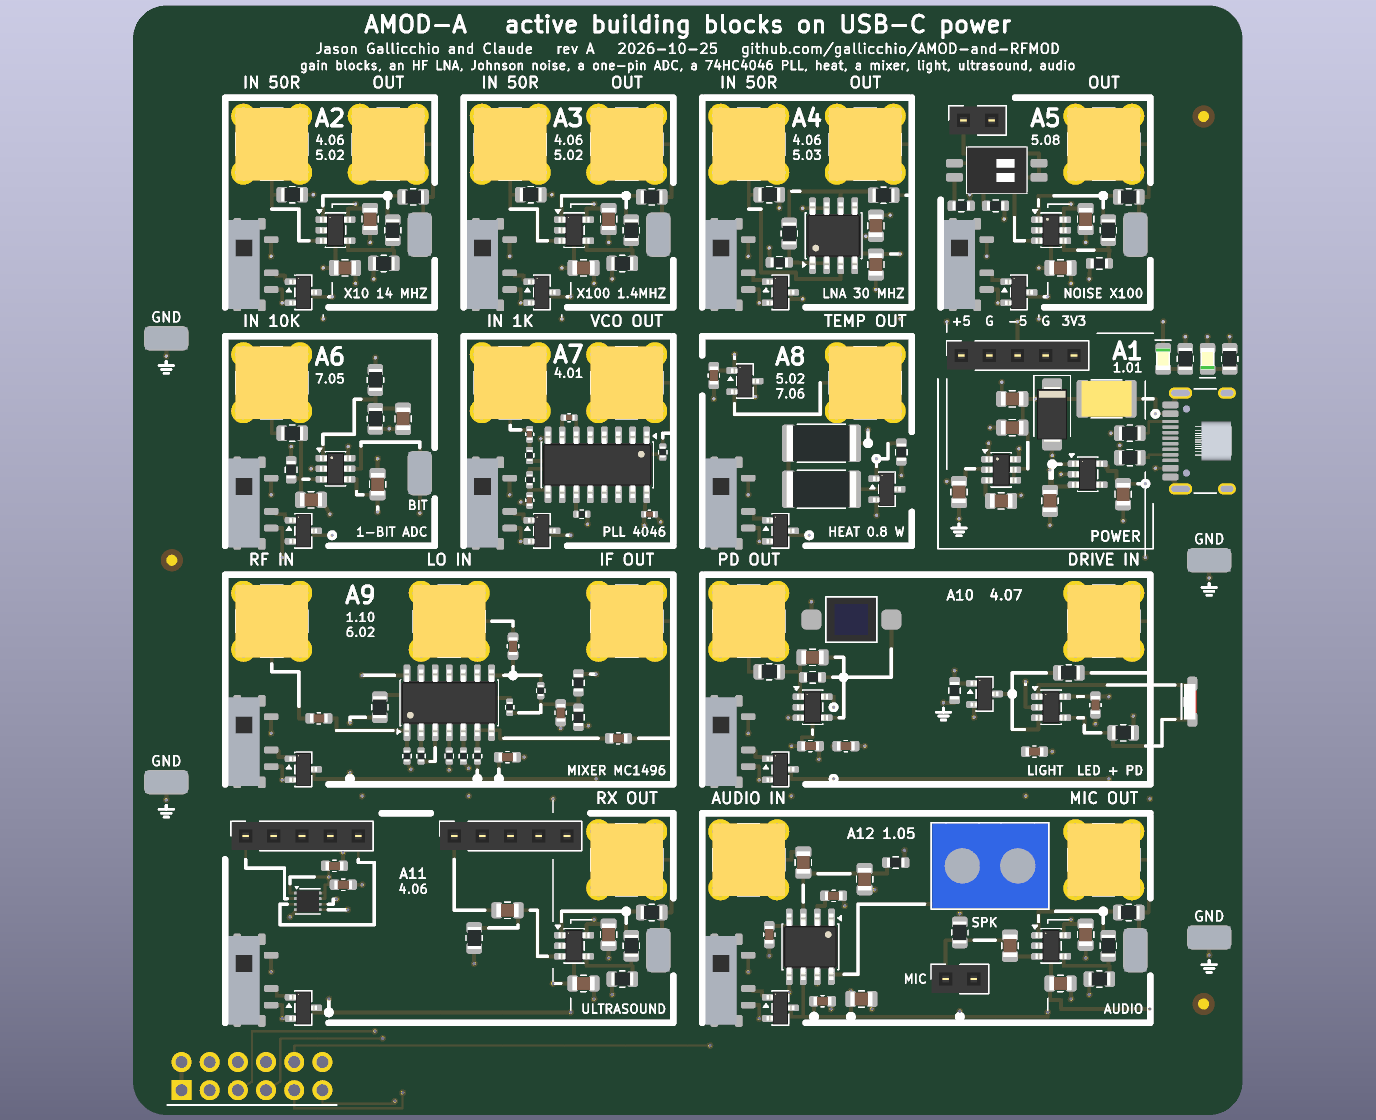
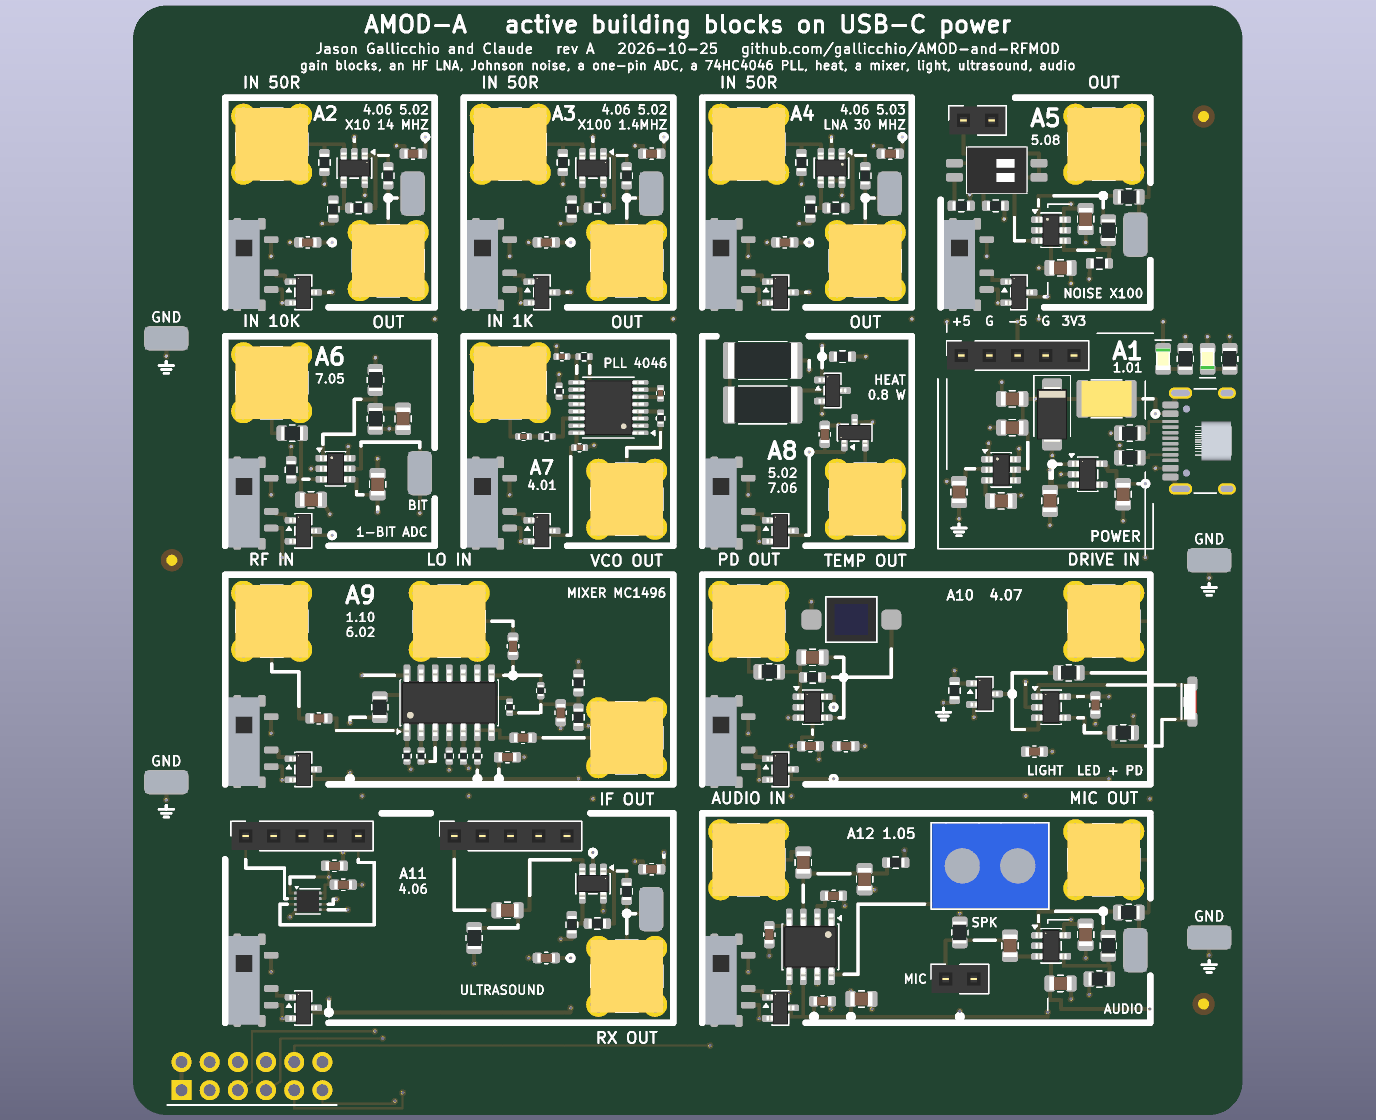
Appendix D: the AMOD boards' jacks in a checkerboard; new renders; AMOD-A $50.90
Every board's jacks now stand at a cell's top-left and bottom-right corners, 14.85 mm
or more apart.  The OPA847 and the 74HC4046 changed package to fit; the crystal and
the resonator stand at 45 degrees.  The three as-built renders are replaced.

Claude-Session: https://claude.ai/code/session_01RKeoKvFFzjk3cEBLCXXHnB

Changed region(s): [[0.1875, 0.0625, 0.6875, 0.5938], [0.3438, 0.625, 0.5, 0.9375]]

diff --git a/tutorial/D_coming_soon.md b/tutorial/D_coming_soon.md
@@ -174,11 +174,11 @@ the day.  The boards, their generator, the handbooks and the night's record are 
 | board | tiles | jacks | layers | parts per board |
 | --- | --- | --- | --- | --- |
 | AMOD-P, passive | 13 | 27 | 2 | $16.97 |
-| AMOD-A, active, USB-C powered | 12 | 19 | 4 | $45.97 |
+| AMOD-A, active, USB-C powered | 12 | 19 | 4 | $50.90 |
 | RF-MOD, 915 MHz and 2.4 GHz | 10 | 22 | 4 | $55.78 |
 | Icepi Zero 2x12 adapter with a Pmod | | | 4 | three hand-soldered headers |
 
-![The passive board as built: thirteen tiles on a 4 x 4 grid of 20 mm cells, two SMA jacks to a tile, each tile's wiring drawn on the silkscreen](img/amod_p_render.png)
+![The passive board as built: thirteen tiles on a 4 x 4 grid of 20 mm cells, each tile's IN jack at its top-left corner and OUT at its bottom-right, its wiring drawn on the silkscreen between them](img/amod_p_render.png)
 
 ![The active board as built: twelve powered tiles, each with its own slide switch, a USB-C power tile on the right edge and the Pmod plug at the left end of the bottom edge](img/amod_a_render.png)
 
@@ -192,7 +192,12 @@ What changed from the plan below, and why:
   Two GALI-84+ gain blocks and two ADL5350 mixers (LF to 4 GHz, passive, either direction) took their places.  When
   Jason asked for the board to be filled with tiles that work together, the RFX2401C front end, the TRF3722 and
   the printed antennas made way for a second gain block, the second mixer and a splitter.  SMA whips replace the
-  antennas.  RF-MOD's tiles take OUT at the bottom-right jack, so its closest jacks are 14.4 mm apart, not 10.5.
+  antennas.
+- **Every jack in a checkerboard.**  Each tile takes IN at a cell's top-left corner and OUT at its bottom-right, so
+  no two jacks on any board are closer than 14.85 mm (10.5 mm in the first layout, too close for two cables and
+  fingers).  The circuit fills the other two quarters of the cell.  Two parts changed package to fit: the OPA847
+  went to its SOT-23-6 and the 74HC4046 to Nexperia's TSSOP-16.  The crystal and the ceramic resonator stand at
+  45 degrees between their jacks.
 - **No mounting holes on AMOD-A and RF-MOD.**  Four stick-on rubber feet replace them.  The Pmod plug moved into
   the corner when its pinout was found mirrored before the order and fixed.  AMOD-P keeps its M3 holes.
 - **The Icepi Zero adapter with a Pmod** is the 2x12 adapter grown to 80 x 30 mm, the socket on the extra 15 mm
